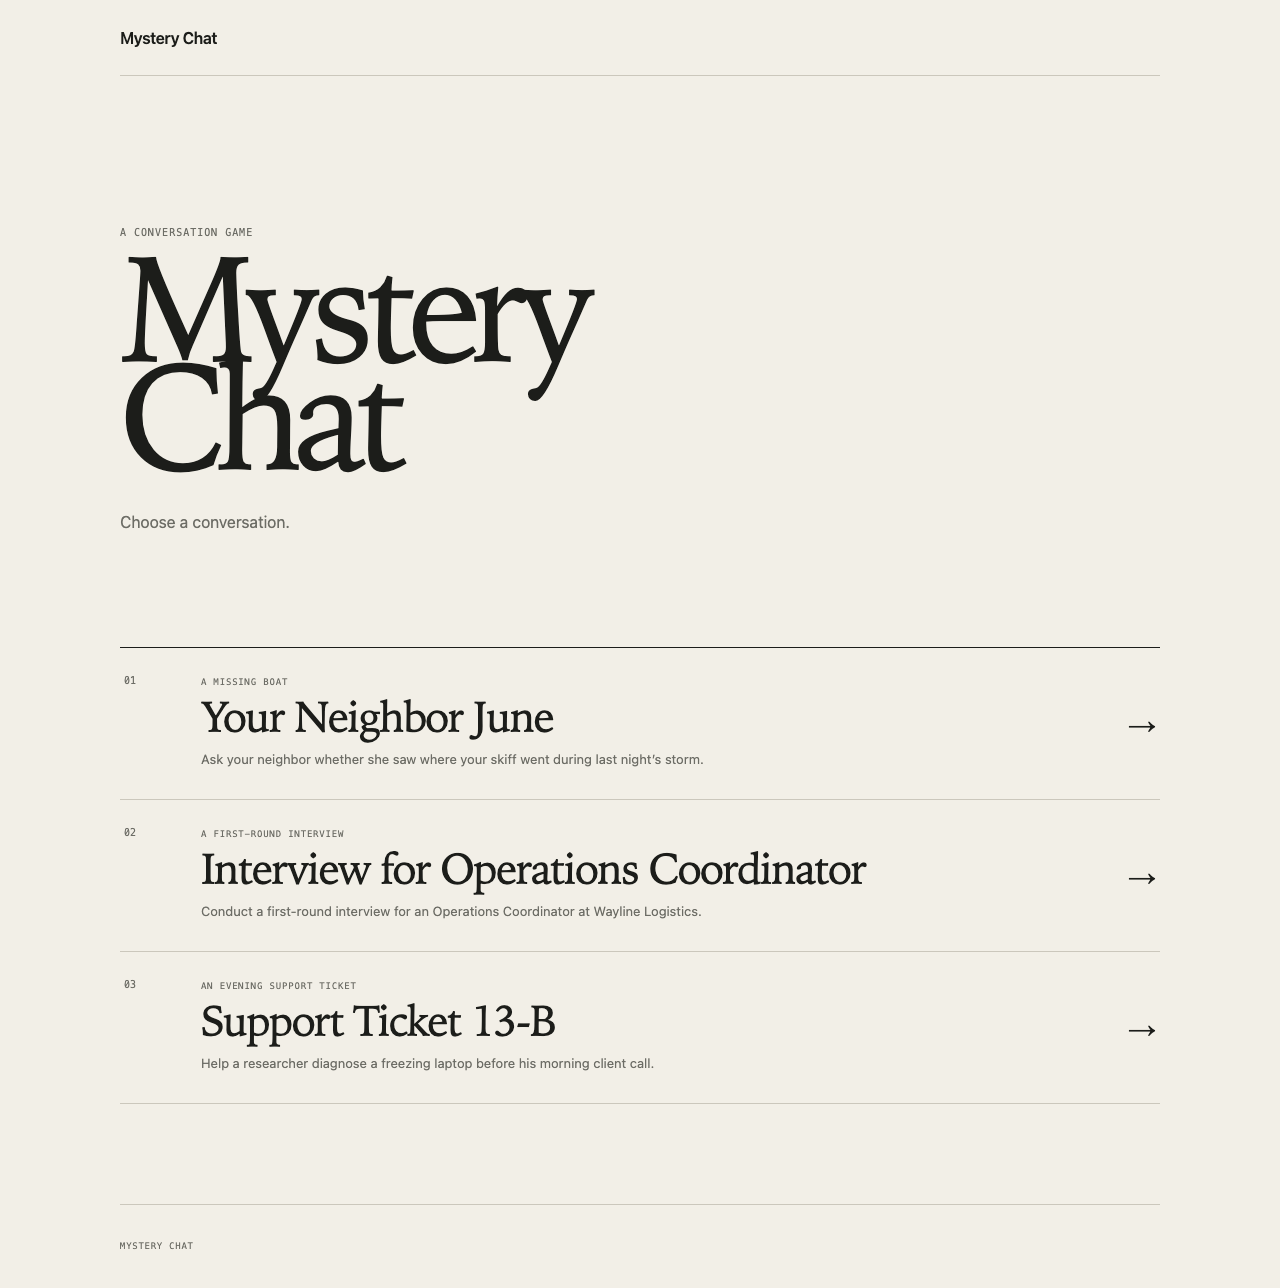
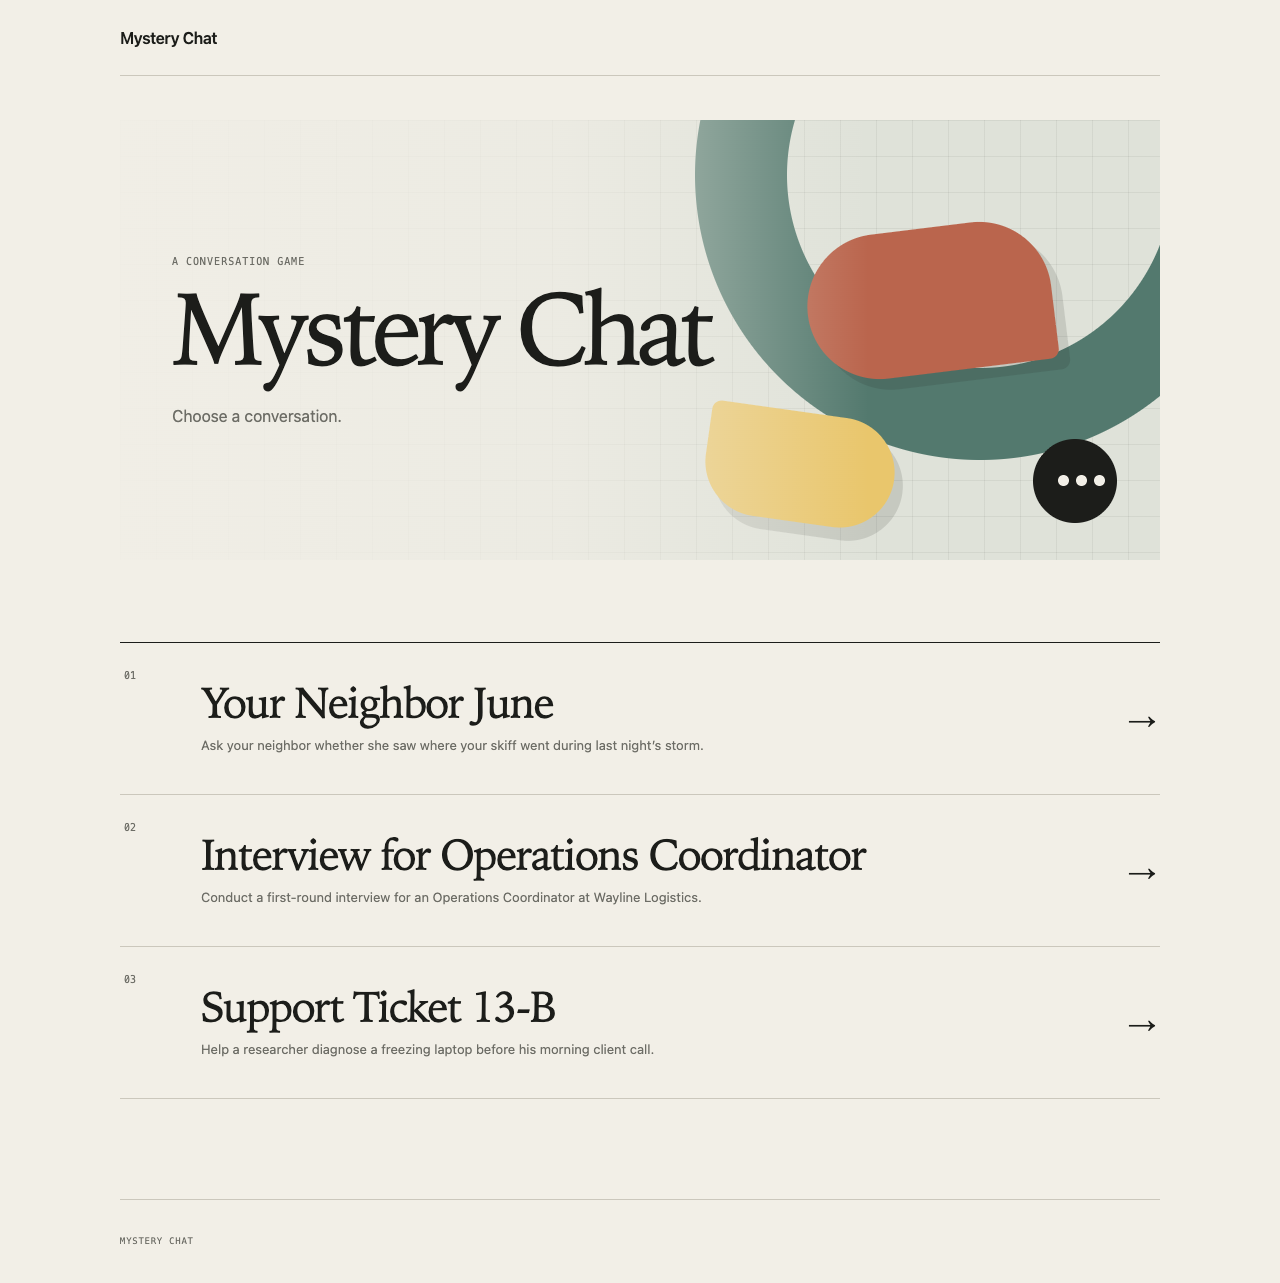
mystery-chat: add abstract entry artwork

diff --git a/mystery-chat/src/style.css b/mystery-chat/src/style.css
@@ -27,18 +27,27 @@ button:focus-visible, a:focus-visible { outline: 2px solid var(--ink); outline-o
 .quiet-link { color: var(--quiet); font: 500 10px/1 var(--mono); letter-spacing: .06em; text-decoration: none; text-transform: uppercase; }
 .quiet-link::before { content: '←'; margin-right: 9px; }
 
-.entry-page { flex: 1; padding: clamp(72px, 12vw, 150px) 0 100px; }
-.entry-intro { margin-bottom: clamp(68px, 10vw, 116px); }
+.entry-page { flex: 1; padding: 44px 0 100px; }
+.entry-intro { min-height: 440px; position: relative; margin-bottom: 82px; display: flex; align-items: center; overflow: hidden; background: #dfe2d9; isolation: isolate; }
+.entry-intro::after { content: ''; position: absolute; z-index: 1; inset: 0; background: linear-gradient(90deg, rgba(242,239,231,.92) 0%, rgba(242,239,231,.68) 42%, transparent 72%); }
+.entry-copy { position: relative; z-index: 2; width: 100%; padding: 68px 52px; }
 .kicker { margin: 0 0 16px; color: var(--quiet); font: 500 10px/1.3 var(--mono); letter-spacing: .1em; text-transform: uppercase; }
-.entry-intro h1 { margin: 0; font: 400 clamp(76px, 14vw, 150px)/.72 var(--serif); letter-spacing: -.07em; }
-.entry-intro > p:last-child { margin: 42px 0 0; color: var(--quiet); font-size: 16px; }
+.entry-intro h1 { margin: 0; white-space: nowrap; font: 400 clamp(66px, 9vw, 102px)/.9 var(--serif); letter-spacing: -.06em; }
+.entry-copy > p:last-child { margin: 31px 0 0; color: var(--quiet); font-size: 16px; }
+.abstract-art { position: absolute; z-index: 0; inset: 0; overflow: hidden; background-image: linear-gradient(rgba(28,29,26,.06) 1px, transparent 1px), linear-gradient(90deg, rgba(28,29,26,.06) 1px, transparent 1px); background-size: 36px 36px; }
+.abstract-art span { position: absolute; display: block; }
+.art-orbit { width: 570px; height: 570px; right: -105px; top: -230px; border: 92px solid #53796e; border-radius: 50%; }
+.art-card { box-shadow: 10px 12px 0 rgba(28,29,26,.13); }
+.art-card-one { width: 245px; height: 145px; right: 108px; top: 108px; border-radius: 74px 74px 10px 74px; background: #ba654d; transform: rotate(-7deg); }
+.art-card-two { width: 190px; height: 110px; right: 265px; bottom: 38px; border-radius: 10px 58px 58px 58px; background: #e9c66c; transform: rotate(8deg); }
+.art-dot { width: 84px; height: 84px; right: 43px; bottom: 37px; border-radius: 50%; background: var(--ink); }
+.art-dot::after { content: ''; width: 11px; height: 11px; position: absolute; left: 25px; top: 36px; border-radius: 50%; background: #f2efe7; box-shadow: 18px 0 #f2efe7, 36px 0 #f2efe7; }
 
 .conversation-list { border-top: 1px solid var(--ink); }
 .conversation-link { min-height: 152px; padding: 25px 4px; display: grid; grid-template-columns: 55px 1fr 40px; gap: 22px; align-items: center; border-bottom: 1px solid var(--line); text-decoration: none; transition: padding .18s ease, background .18s ease; }
 .conversation-link:hover { padding-right: 14px; padding-left: 14px; background: rgba(255, 255, 255, .38); }
 .conversation-number { align-self: start; padding-top: 3px; color: var(--quiet); font: 400 10px/1 var(--mono); }
 .conversation-text { display: flex; flex-direction: column; }
-.conversation-text small { margin-bottom: 8px; color: var(--quiet); font: 500 9px/1 var(--mono); letter-spacing: .09em; text-transform: uppercase; }
 .conversation-text strong { font: 400 clamp(29px, 4vw, 43px)/1 var(--serif); letter-spacing: -.035em; }
 .conversation-text > span { max-width: 570px; margin-top: 12px; color: var(--quiet); font-size: 13px; line-height: 1.5; }
 .arrow { font: 400 28px/1 var(--serif); text-align: right; }
@@ -76,10 +85,17 @@ footer { height: 84px; margin-top: auto; display: flex; align-items: center; bor
 @media (max-width: 720px) {
   .site-shell { width: min(100% - 28px, 620px); }
   .site-header { height: 64px; }
-  .entry-page { padding-top: 80px; }
-  .entry-intro { margin-bottom: 72px; }
-  .entry-intro h1 { font-size: clamp(70px, 23vw, 112px); }
-  .entry-intro > p:last-child { margin-top: 32px; }
+  .entry-page { padding-top: 25px; }
+  .entry-intro { min-height: 340px; margin-bottom: 62px; }
+  .entry-intro::after { background: linear-gradient(90deg, rgba(242,239,231,.9), rgba(242,239,231,.55) 70%, transparent); }
+  .entry-copy { padding: 46px 18px; }
+  .entry-intro h1 { font-size: clamp(46px, 14vw, 60px); }
+  .entry-copy > p:last-child { margin-top: 25px; }
+  .art-orbit { width: 390px; height: 390px; right: -205px; top: -175px; border-width: 65px; }
+  .art-card-one { width: 175px; height: 105px; right: -20px; top: 96px; }
+  .art-card-two { width: 140px; height: 82px; right: 92px; bottom: 24px; }
+  .art-dot { width: 65px; height: 65px; right: 10px; bottom: 25px; }
+  .art-dot::after { width: 8px; height: 8px; left: 19px; top: 28px; box-shadow: 14px 0 #f2efe7, 28px 0 #f2efe7; }
   .conversation-link { min-height: 154px; padding: 22px 2px; grid-template-columns: 32px 1fr 25px; gap: 10px; }
   .conversation-link:hover { padding-left: 7px; padding-right: 7px; }
   .conversation-text strong { font-size: 29px; }

diff --git a/mystery-chat/src/data.ts b/mystery-chat/src/data.ts
@@ -8,7 +8,6 @@ interface Scenario {
 export interface Story {
   slug: StorySlug
   number: string
-  label: string
   title: string
   roleLabel: string
   hook: string
@@ -46,7 +45,6 @@ function source(files: Record<string, string>, slug: StorySlug): string {
 const storyDetails: Record<StorySlug, Omit<Story, 'slug' | 'title' | 'roleLabel' | 'briefing' | 'prompt'>> = {
   'absentminded-neighbor': {
     number: '01',
-    label: 'A missing boat',
     hook: 'Ask your neighbor whether she saw where your skiff went during last night’s storm.',
     image: 'june-barlow.webp',
     accent: 'sea',
@@ -58,7 +56,6 @@ const storyDetails: Record<StorySlug, Omit<Story, 'slug' | 'title' | 'roleLabel'
   },
   'job-applicant': {
     number: '02',
-    label: 'A first-round interview',
     hook: 'Conduct a first-round interview for an Operations Coordinator at Wayline Logistics.',
     image: 'mara-voss.webp',
     accent: 'ember',
@@ -70,7 +67,6 @@ const storyDetails: Record<StorySlug, Omit<Story, 'slug' | 'title' | 'roleLabel'
   },
   'cursed-support': {
     number: '03',
-    label: 'An evening support ticket',
     hook: 'Help a researcher diagnose a freezing laptop before his morning client call.',
     image: 'eli-ward.webp',
     accent: 'signal',

diff --git a/mystery-chat/src/App.vue b/mystery-chat/src/App.vue
@@ -104,9 +104,17 @@ onBeforeUnmount(() => {
 
     <main v-if="!activeStory" class="entry-page">
       <section class="entry-intro">
-        <p class="kicker">A conversation game</p>
-        <h1>Mystery<br />Chat</h1>
-        <p>Choose a conversation.</p>
+        <div class="abstract-art" aria-hidden="true">
+          <span class="art-orbit" />
+          <span class="art-card art-card-one" />
+          <span class="art-card art-card-two" />
+          <span class="art-dot" />
+        </div>
+        <div class="entry-copy">
+          <p class="kicker">A conversation game</p>
+          <h1>Mystery Chat</h1>
+          <p>Choose a conversation.</p>
+        </div>
       </section>
 
       <nav class="conversation-list" aria-label="Conversations">
@@ -119,7 +127,6 @@ onBeforeUnmount(() => {
         >
           <span class="conversation-number">{{ story.number }}</span>
           <span class="conversation-text">
-            <small>{{ story.label }}</small>
             <strong>{{ story.title }}</strong>
             <span>{{ story.hook }}</span>
           </span>

diff --git a/mystery-chat/tests/e2e/mystery-chat.spec.ts b/mystery-chat/tests/e2e/mystery-chat.spec.ts
@@ -15,6 +15,7 @@ test('entry page stays minimal and links to all three conversations', async ({ p
   await expect(page.getByRole('link', { name: /Interview for Operations Coordinator/ })).toBeVisible()
   await expect(page.getByRole('link', { name: /Support Ticket 13-B/ })).toBeVisible()
   await expect(page.getByText('Copy conversation prompt')).toHaveCount(0)
+  await expect(page.getByText('A missing boat')).toHaveCount(0)
   await expect(page.getByText(/hidden truth|left unsaid|secret/i)).toHaveCount(0)
 })
 
